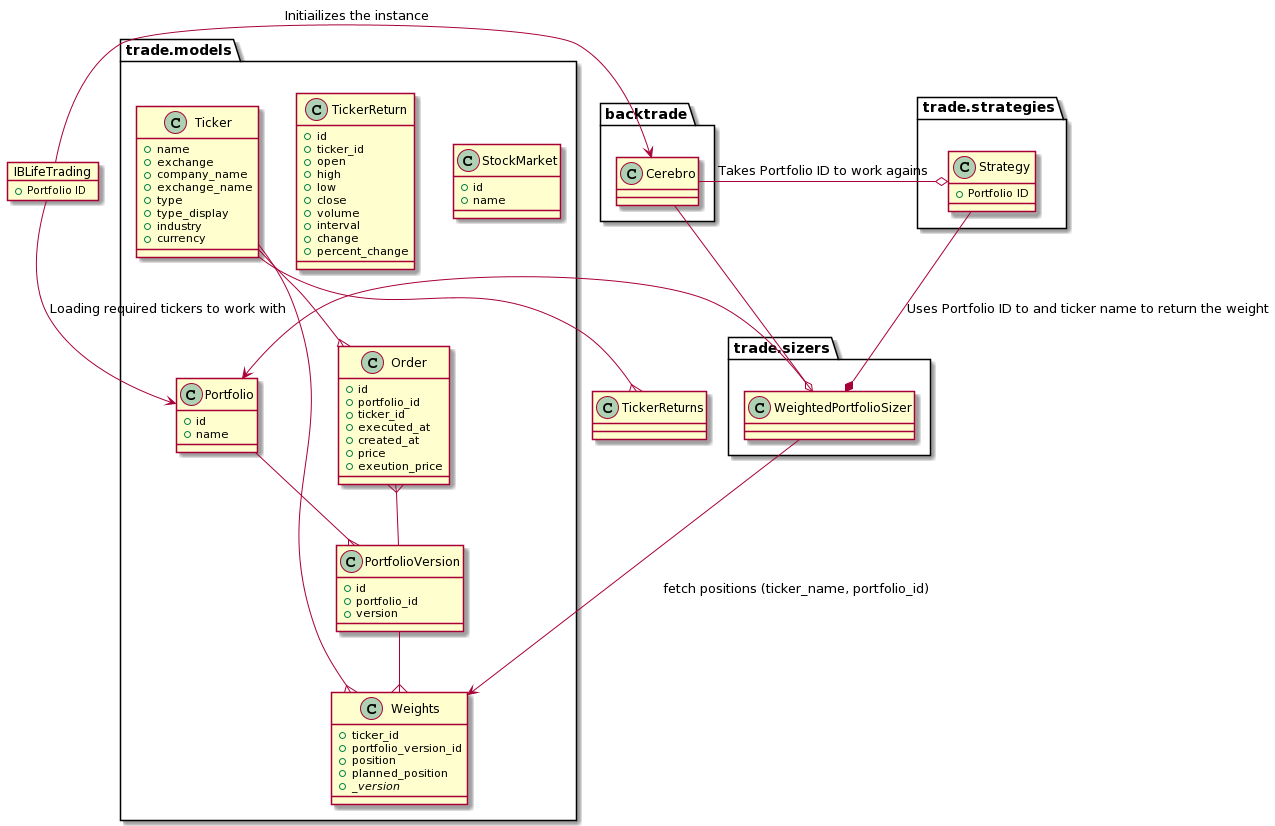
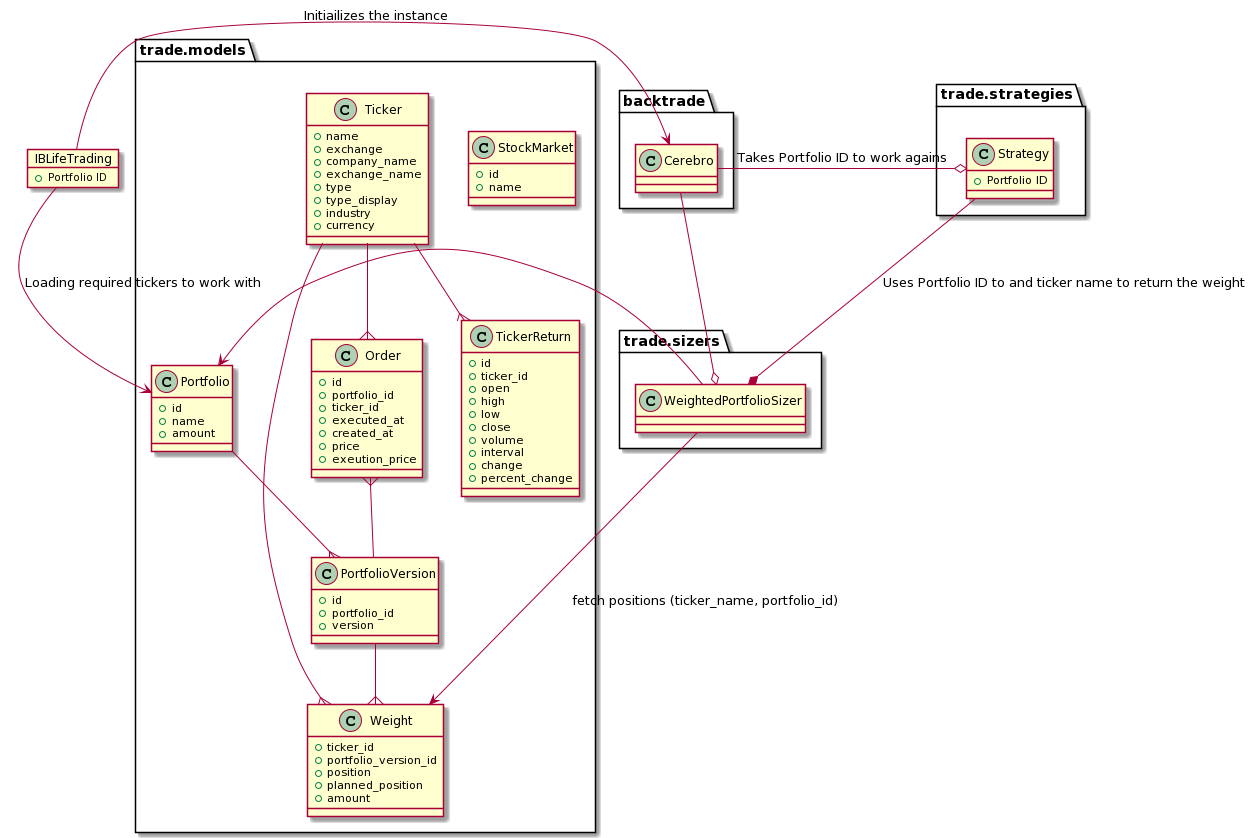
Lock and unlock weights using ValueProtectingStrategy

diff --git a/trade/strategies/base_strategy.py b/trade/strategies/base_strategy.py
@@ -72,12 +72,21 @@ class BaseStrategy(bt.Strategy):
             if self._open_order_exist(d._name):
                 return
 
+            weight = WeightsRepository.find_by_ticker_and_portfolio(
+                ticker=TickersRepository().get_by_name(d._name),
+                portfolio_version_id=self.p.portfolio_version_id,
+            )
+
             if not position:
                 if self.buy_signal(d):
+                    if weight.locked_at is not None:
+                        logger.debug(f"IS LOCKED {d._name} by {self}")
+                        return
+
                     order = OrdersRepository.build_and_create(
                         symbol_name=d._name,
                         portfolio_version_id=self.p.portfolio_version_id,
-                        desired_price=0,
+                        desired_price=d.close[0],
                         type="buy",
                     )
                     btorder = self.buy(data=d)
@@ -90,7 +99,7 @@ class BaseStrategy(bt.Strategy):
                     order = OrdersRepository.build_and_create(
                         symbol_name=d._name,
                         portfolio_version_id=self.p.portfolio_version_id,
-                        desired_price=0,
+                        desired_price=d.close[0],
                         type="sell",
                     )
                     btorder = self.close(data=d)
@@ -110,6 +119,13 @@ class BaseStrategy(bt.Strategy):
             return
 
         if order.status in [order.Completed]:
+            OrdersRepository.set_execution_params(
+                order=OrdersRepository.get_by_id(order_id),
+                execution_size=order.executed.size,
+                execution_price=order.executed.price,
+                execution_value=order.executed.value,
+                execution_commission=order.executed.comm,
+            )
             if order.isbuy():
                 weight = WeightsRepository.find_by_ticker_and_portfolio(
                     ticker=TickersRepository().get_by_name(symbol),

diff --git a/tests/strategies/test_value_protecting_stategy.py b/tests/strategies/test_value_protecting_stategy.py
@@ -1,4 +1,5 @@
 from datetime import datetime
+from decimal import Decimal
 
 import pytest
 import backtrader as bt
@@ -6,7 +7,7 @@ from backtrader import DataBase
 
 from tests import testcommon
 from trade.models import Order
-from trade.repositories import OrdersRepository
+from trade.repositories import OrdersRepository, WeightsRepository
 from trade.strategies import ValueProtectingStrategy
 from trade.strategies.base_strategy import BaseStrategy
 
@@ -44,4 +45,22 @@ class TestValueProtectingStrategy:
         orders_after = OrdersRepository().get_orders_by_portfolio(portfolio)
         assert (len(orders_after) - len(orders_before)) == 2
         assert 29987.44 == broker.get_value()
+        Order.delete().execute()
+
+    def test_after_sell_weight_is_locked(self, subject, cerebro, weight):
+        data = testcommon.getdata(1, fromdate=datetime(2020, 5, 12), todate=datetime(2020, 5, 14, 23, 59, 59))
+        c = cerebro([self.__class__.DummyBuyOnceStrategy, subject], data)
+        c.run()
+        weight = WeightsRepository.get_by_id(weight.id)
+        assert weight.locked_at is not None
+        assert weight.locked_at_amount == Decimal('14.10')
+        Order.delete().execute()
+
+    def test_after_buy_is_unlocked(self, subject, cerebro, weight):
+        data = testcommon.getdata(1, fromdate=datetime(2020, 5, 12), todate=datetime(2021, 5, 30))
+        c = cerebro([self.__class__.DummyBuyOnceStrategy, subject], data)
+        c.run()
+        weight = WeightsRepository.get_by_id(weight.id)
+        assert weight.locked_at is None
+        assert weight.locked_at_amount is None
         Order.delete().execute()

diff --git a/trade/strategies/value_protecting_strategy.py b/trade/strategies/value_protecting_strategy.py
@@ -20,7 +20,13 @@ class ValueProtectingStrategy(BaseStrategy):
         - price is more or equal to the last sell price
         - uptrend of the stock
         """
-        pass
+        weight = WeightsRepository.find_by_ticker_and_portfolio(
+            ticker=TickersRepository().get_by_name(data._name),
+            portfolio_version_id=self.p.portfolio_version_id,
+        )
+        if weight.locked_at_amount and data.close[0] >= weight.locked_at_amount:
+            WeightsRepository.unlock_weight(weight=weight)
+        return False
 
     def sell_signal(self, data):
         """
@@ -33,3 +39,13 @@ class ValueProtectingStrategy(BaseStrategy):
             ticker=ticker, portfolio_version_id=self.p.portfolio_version_id
         )
         return value <= (weight.amount * Decimal(self.p.dipmult))
+
+    def after_sell(self, order, data):
+        """
+        TODO: Should it be after order is executed?
+        """
+        weight = WeightsRepository.find_by_ticker_and_portfolio(
+            ticker=TickersRepository().get_by_name(data._name),
+            portfolio_version_id=self.p.portfolio_version_id,
+        )
+        WeightsRepository.lock_weight(weight=weight, locked_at_amount=data.close[0])

diff --git a/trade/repositories/weights_repository.py b/trade/repositories/weights_repository.py
@@ -66,8 +66,9 @@ class WeightsRepository(RepositoryInterface):
             created_at=data["created_at"],
         )
 
-    def get_by_id(self, id: int) -> Base:
-        return self.model.get(id)
+    @classmethod
+    def get_by_id(cls, id: int) -> Base:
+        return Weight.get(id)
 
     def get_by_ticker_and_portfolio_version(
         self, ticker_id: int, portfolio_version_id: int
@@ -81,3 +82,17 @@ class WeightsRepository(RepositoryInterface):
             .where(Ticker.id == ticker_id)
             .get()
         )
+
+    @classmethod
+    def lock_weight(cls, weight: Weight, locked_at_amount: float) -> Weight:
+        weight.locked_at = datetime.now()
+        weight.locked_at_amount = locked_at_amount
+        weight.save()
+        return cls.get_by_id(weight.id)
+
+    @classmethod
+    def unlock_weight(cls, weight: Weight) -> Weight:
+        weight.locked_at = None
+        weight.locked_at_amount = None
+        weight.save()
+        return cls.get_by_id(weight.id)

diff --git a/trade/repositories/orders_repository.py b/trade/repositories/orders_repository.py
@@ -80,3 +80,20 @@ class OrdersRepository(RepositoryInterface):
             logger.warning(f"Found multiple unclosed orders for {portfolio}")
 
         return found[0] if len(found) > 0 else None
+
+    @classmethod
+    def set_execution_params(
+        cls,
+        order: Order,
+        execution_size: int,
+        execution_price: float,
+        execution_value: float,
+        execution_commission: float,
+    ) -> Order:
+        order.execution_size = execution_size
+        order.execution_price = execution_price
+        order.execution_value = execution_value
+        order.execution_commission = execution_commission
+        order.executed_at = datetime.now()
+        order.save()
+        return cls.get_by_id(order.id)

diff --git a/tests/repositories/test_orders_repository.py b/tests/repositories/test_orders_repository.py
@@ -77,3 +77,17 @@ class TestOrdersRepository:
     def test_last_not_closed_order_when_no_orders(self, subject, portfolio, ticker):
         found = subject.last_not_closed_order(portfolio, ticker)
         assert found is None
+
+    def test_set_execution_params(self, subject, order):
+        result = subject.set_execution_params(
+            order=order,
+            execution_size=1,
+            execution_price=100,
+            execution_value=200,
+            execution_commission=1
+        )
+        assert result.execution_size == 1
+        assert result.execution_price == 100
+        assert result.execution_value == 200
+        assert result.execution_commission == 1
+        assert result.executed_at is not None

diff --git a/tests/repositories/test_weights_repository.py b/tests/repositories/test_weights_repository.py
@@ -78,3 +78,13 @@ class TestWeightsRepository:
     def test_update_amount(self, weight, subject):
         subject.update_amount(weight, 101)
         assert Weight.get(weight.id).amount == 101
+
+    def test_lock_weight(self, subject, weight):
+        result = subject.lock_weight(weight, 101)
+        assert result.locked_at_amount == 101
+        assert result.locked_at is not None
+
+    def test_unlock_weight(self, subject, weight):
+        result = subject.unlock_weight(weight)
+        assert result.locked_at_amount is None
+        assert result.locked_at is None

diff --git a/trade/models/order.py b/trade/models/order.py
@@ -9,8 +9,11 @@ class Order(Base):
     portfolio_version = peewee.ForeignKeyField(PortfolioVersion, backref="orders")
     status = peewee.CharField()
     executed_at = peewee.DateTimeField(null=True)
-    desired_price = peewee.DecimalField()
+    desired_price = peewee.DecimalField(null=True)
+    execution_size = peewee.IntegerField(null=True)
     execution_price = peewee.DecimalField(null=True)
+    execution_value = peewee.DecimalField(null=True)
+    execution_commission = peewee.DecimalField(null=True)
 
     Created = "Created"
     Submitted = "Submitted"

diff --git a/trade/models/weight.py b/trade/models/weight.py
@@ -10,6 +10,8 @@ class Weight(Base):
     position = peewee.IntegerField()
     planned_position = peewee.IntegerField()
     amount = peewee.DecimalField(constraints=[peewee.Check("amount >= 0")], default=0)
+    locked_at = peewee.DateTimeField(null=True)
+    locked_at_amount = peewee.DecimalField(null=True, decimal_places=2)
 
     class Meta:
         indexes = ((("ticker", "portfolio_version"), True),)

diff --git a/README.rst b/README.rst
@@ -99,16 +99,17 @@ Basic development process
 
 .. code:: bash
 
-    git checkout master
-    git pull origin master
-    git checkout -b feature-<NAME>
-    git branch
-    # make changes
-    git add -p
-    git status
-    git commit -m "Update ..."
-    git log
-    git push origin feature-<NAME>
+   git checkout master
+   git pull origin master
+   git checkout -b feature-<NAME>
+   git branch
+   # make changes
+   docker-compose run -e ENV_FILE=.env.dev trade black trade
+   git add -p
+   git status
+   git commit -m "Update ..."
+   git log
+   git push origin feature-<NAME>
 
 What to in case of local changes that prevents to checkout branch
 ^^^^^^^^^^^^^^^^^^^^^^
@@ -118,7 +119,6 @@ What to in case of local changes that prevents to checkout branch
     git stash
     git checkout branch
     git stash pop
-
 
 Download all tickers
 --------------------
